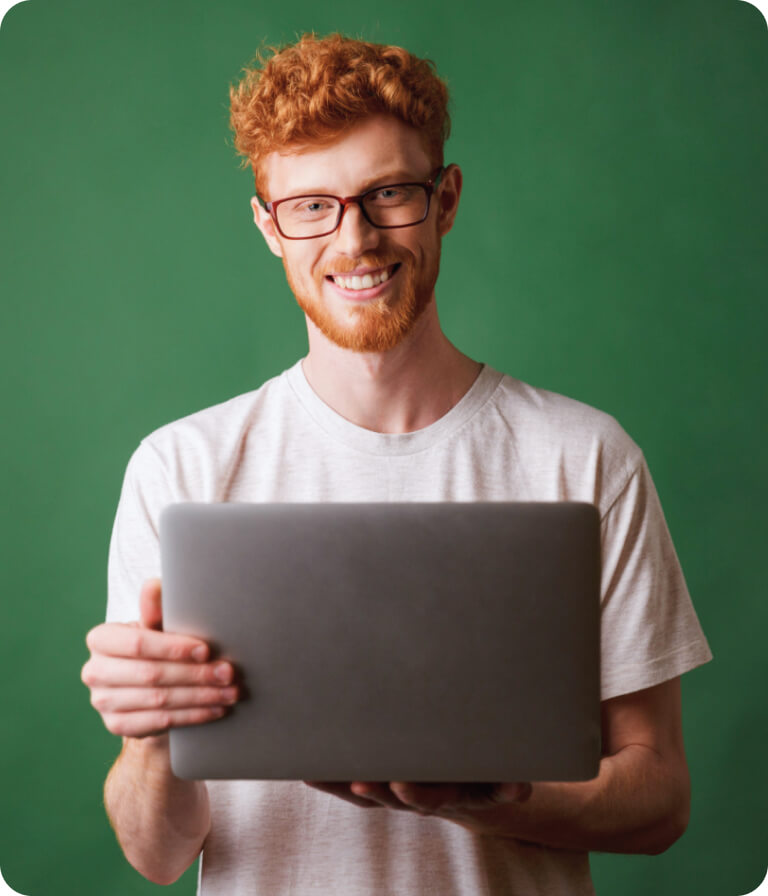
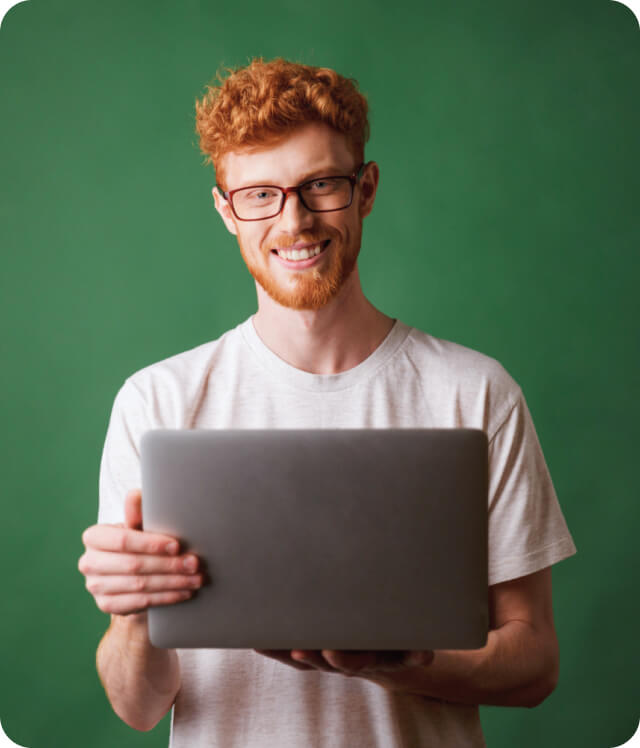
уголки на фото при темной теме

diff --git a/src/css/about-me.css b/src/css/about-me.css
@@ -21,6 +21,7 @@
 
 .photo_aboutMe{
     padding-bottom: 40px;
+    border-radius: 19px;
 }
 
 .h3_aboutMe{font-family: "Poppins", sans-serif;
@@ -147,3 +148,7 @@
 }
 }
 
+@media screen and (min-width: 1300px){
+.aboutMe{
+    background-color: #1E2023;}
+}
